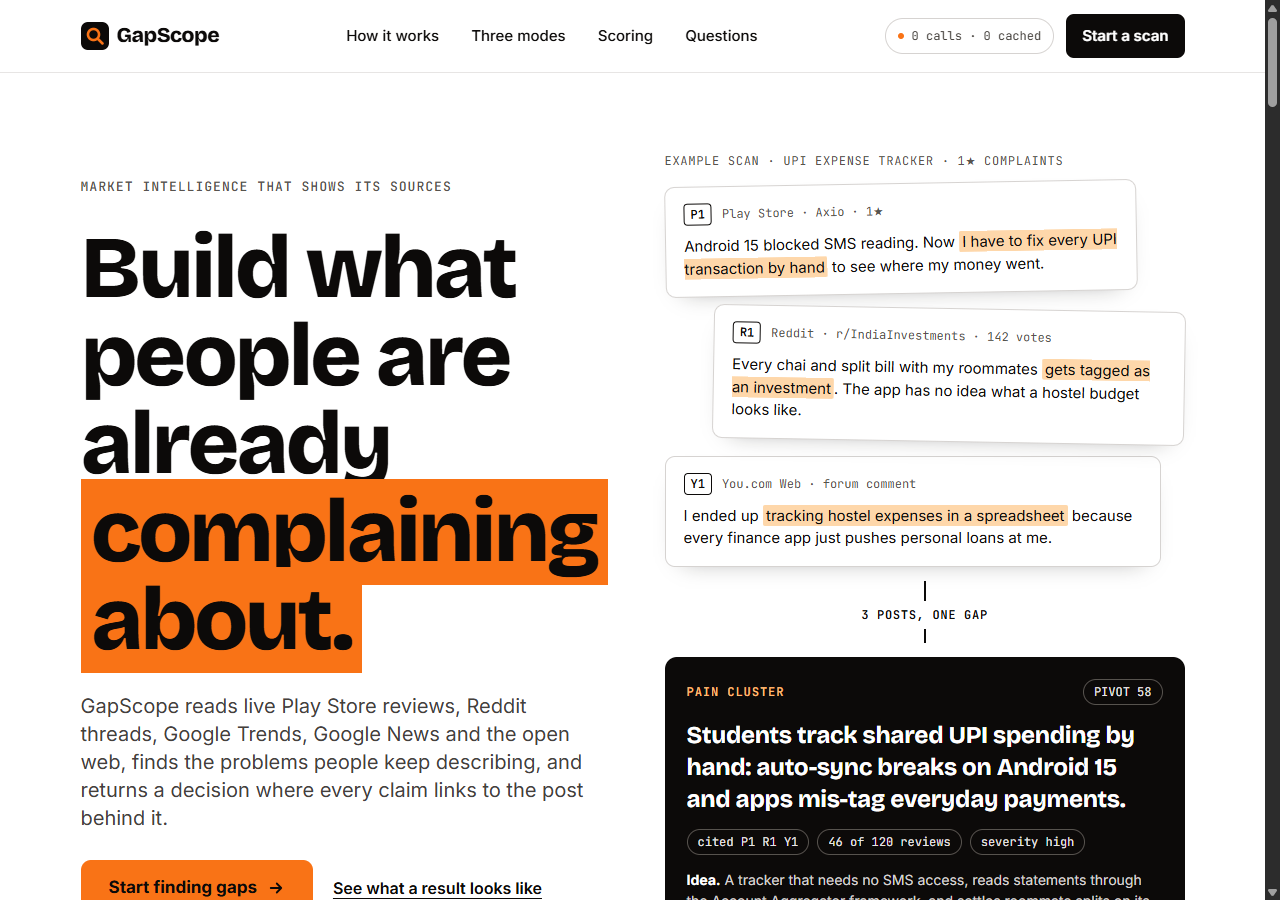
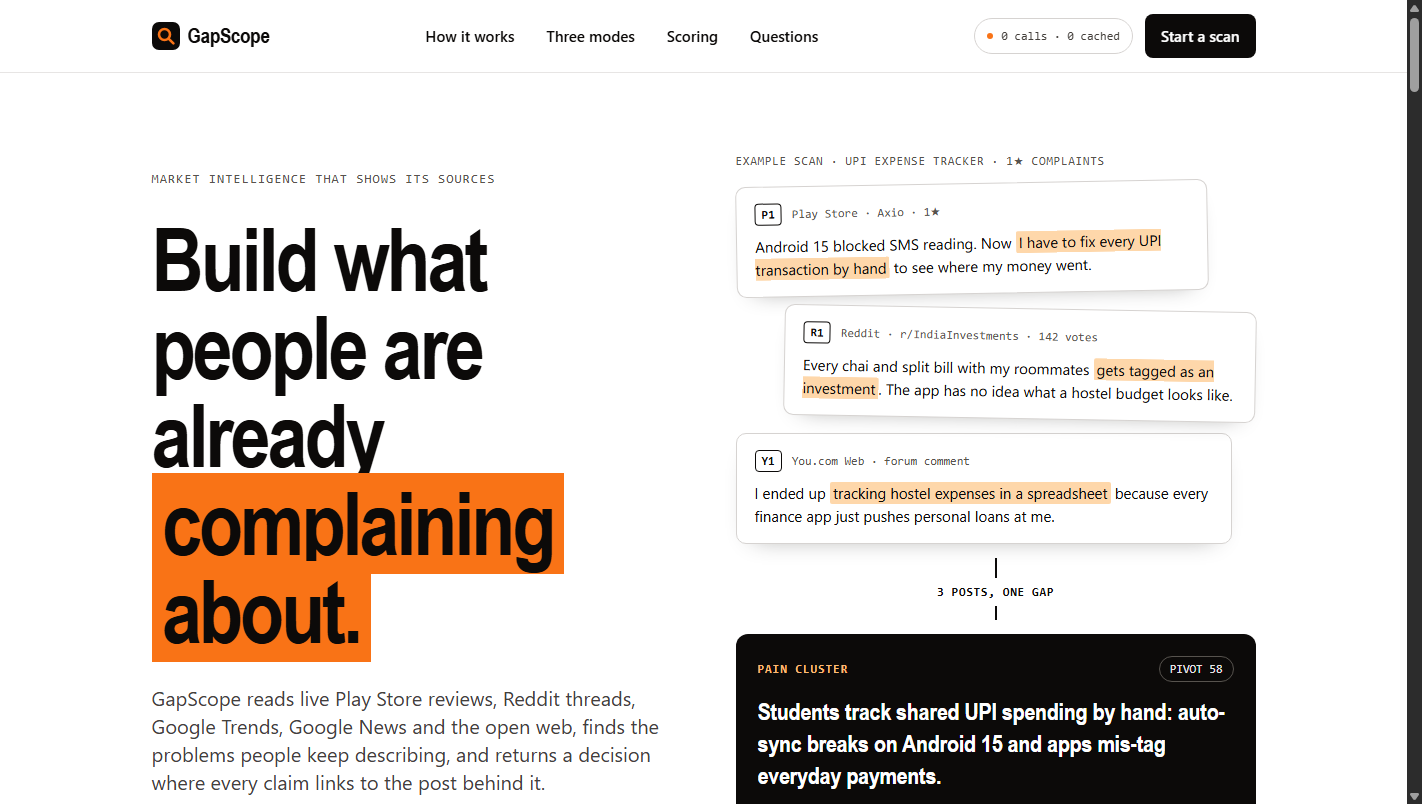
docs: format product preview with full hero and side-by-side standard web screenshots

diff --git a/README.md b/README.md
@@ -21,18 +21,14 @@ An autonomous market-intelligence engine that investigates startup concepts, com
 
 <div align="center">
 
-### 1. Research Workspace & Three Core Modes
-<img src="assets/screenshots/landing-hero.png" alt="GapScope Landing & Mode Switcher" width="900" />
+### Research Workspace & Scan Hub
+<img src="assets/screenshots/landing-hero.png" alt="GapScope Landing Hero & Research Workspace" width="100%" />
 
 <br/><br/>
 
-### 2. Market Intelligence Report & Viability Score Gauge
-<img src="assets/screenshots/report-overview.png" alt="GapScope Market Intelligence Report" width="900" />
-
-<br/><br/>
-
-### 3. Evidence Wall — Customer Friction Receipts
-<img src="assets/screenshots/evidence-wall.png" alt="GapScope Evidence Wall" width="900" />
+| Market Intelligence Report & Viability Score | Live Evidence Wall & Customer Receipts |
+|:---:|:---:|
+| <img src="assets/screenshots/report-overview.png" alt="GapScope Market Intelligence Report" width="100%" /> | <img src="assets/screenshots/evidence-wall.png" alt="GapScope Evidence Wall" width="100%" /> |
 
 </div>
 
